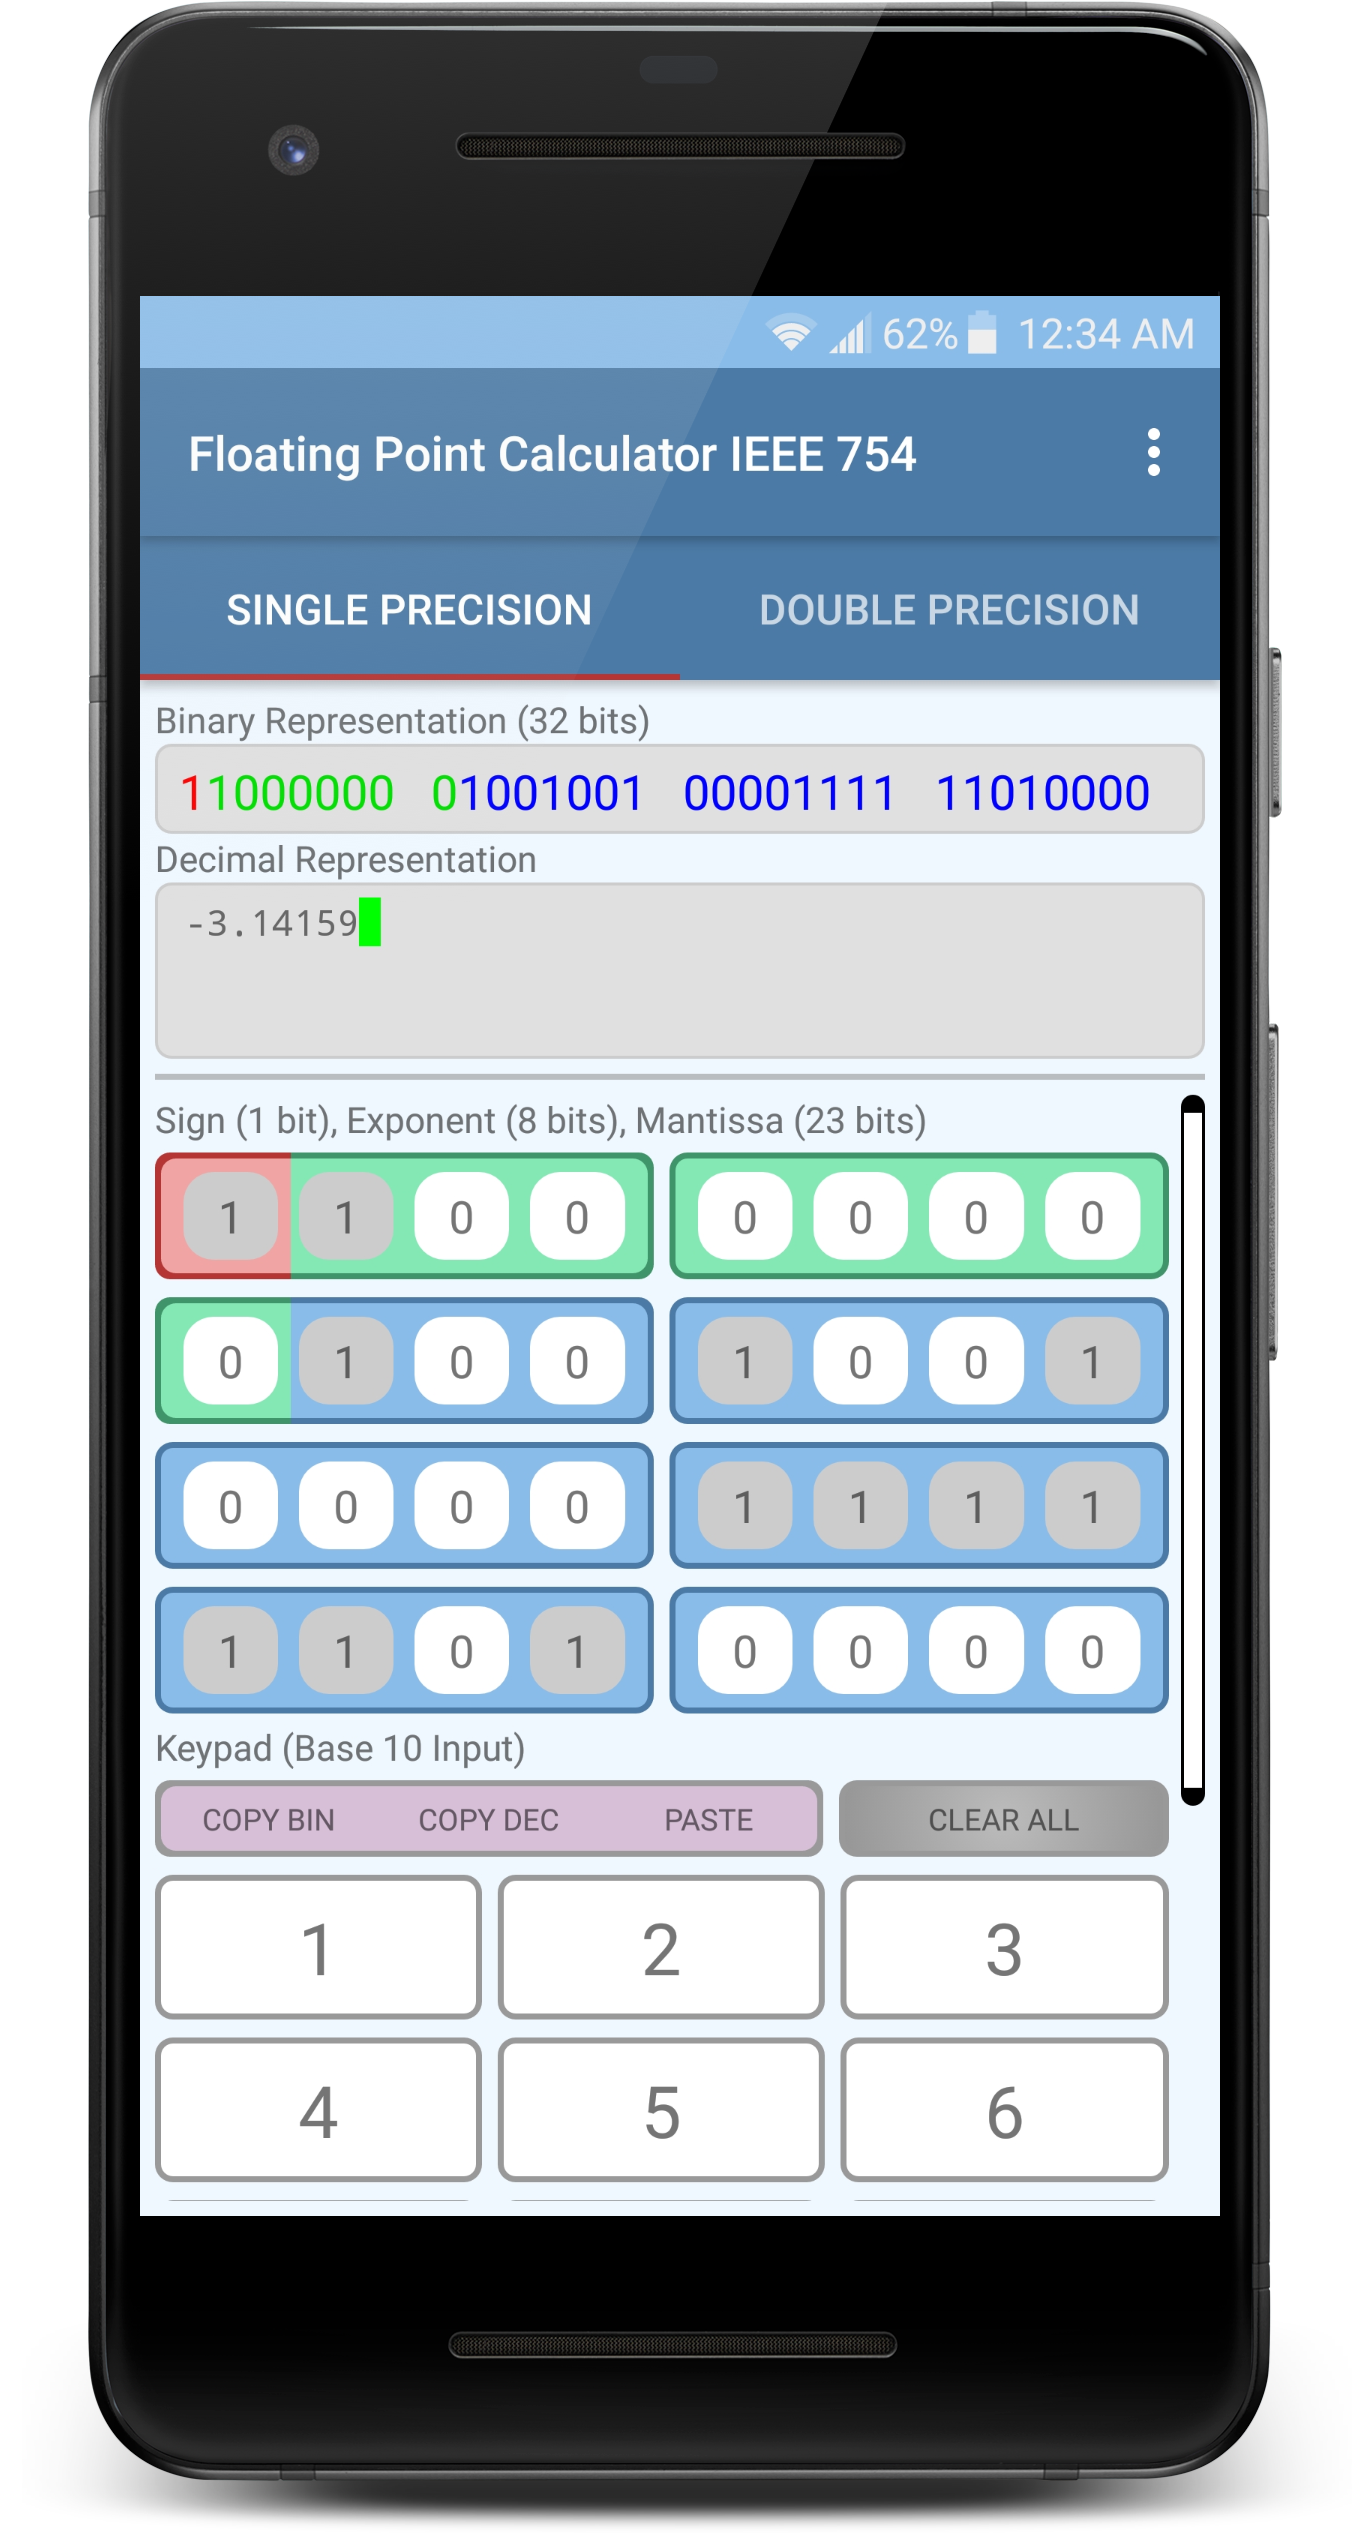
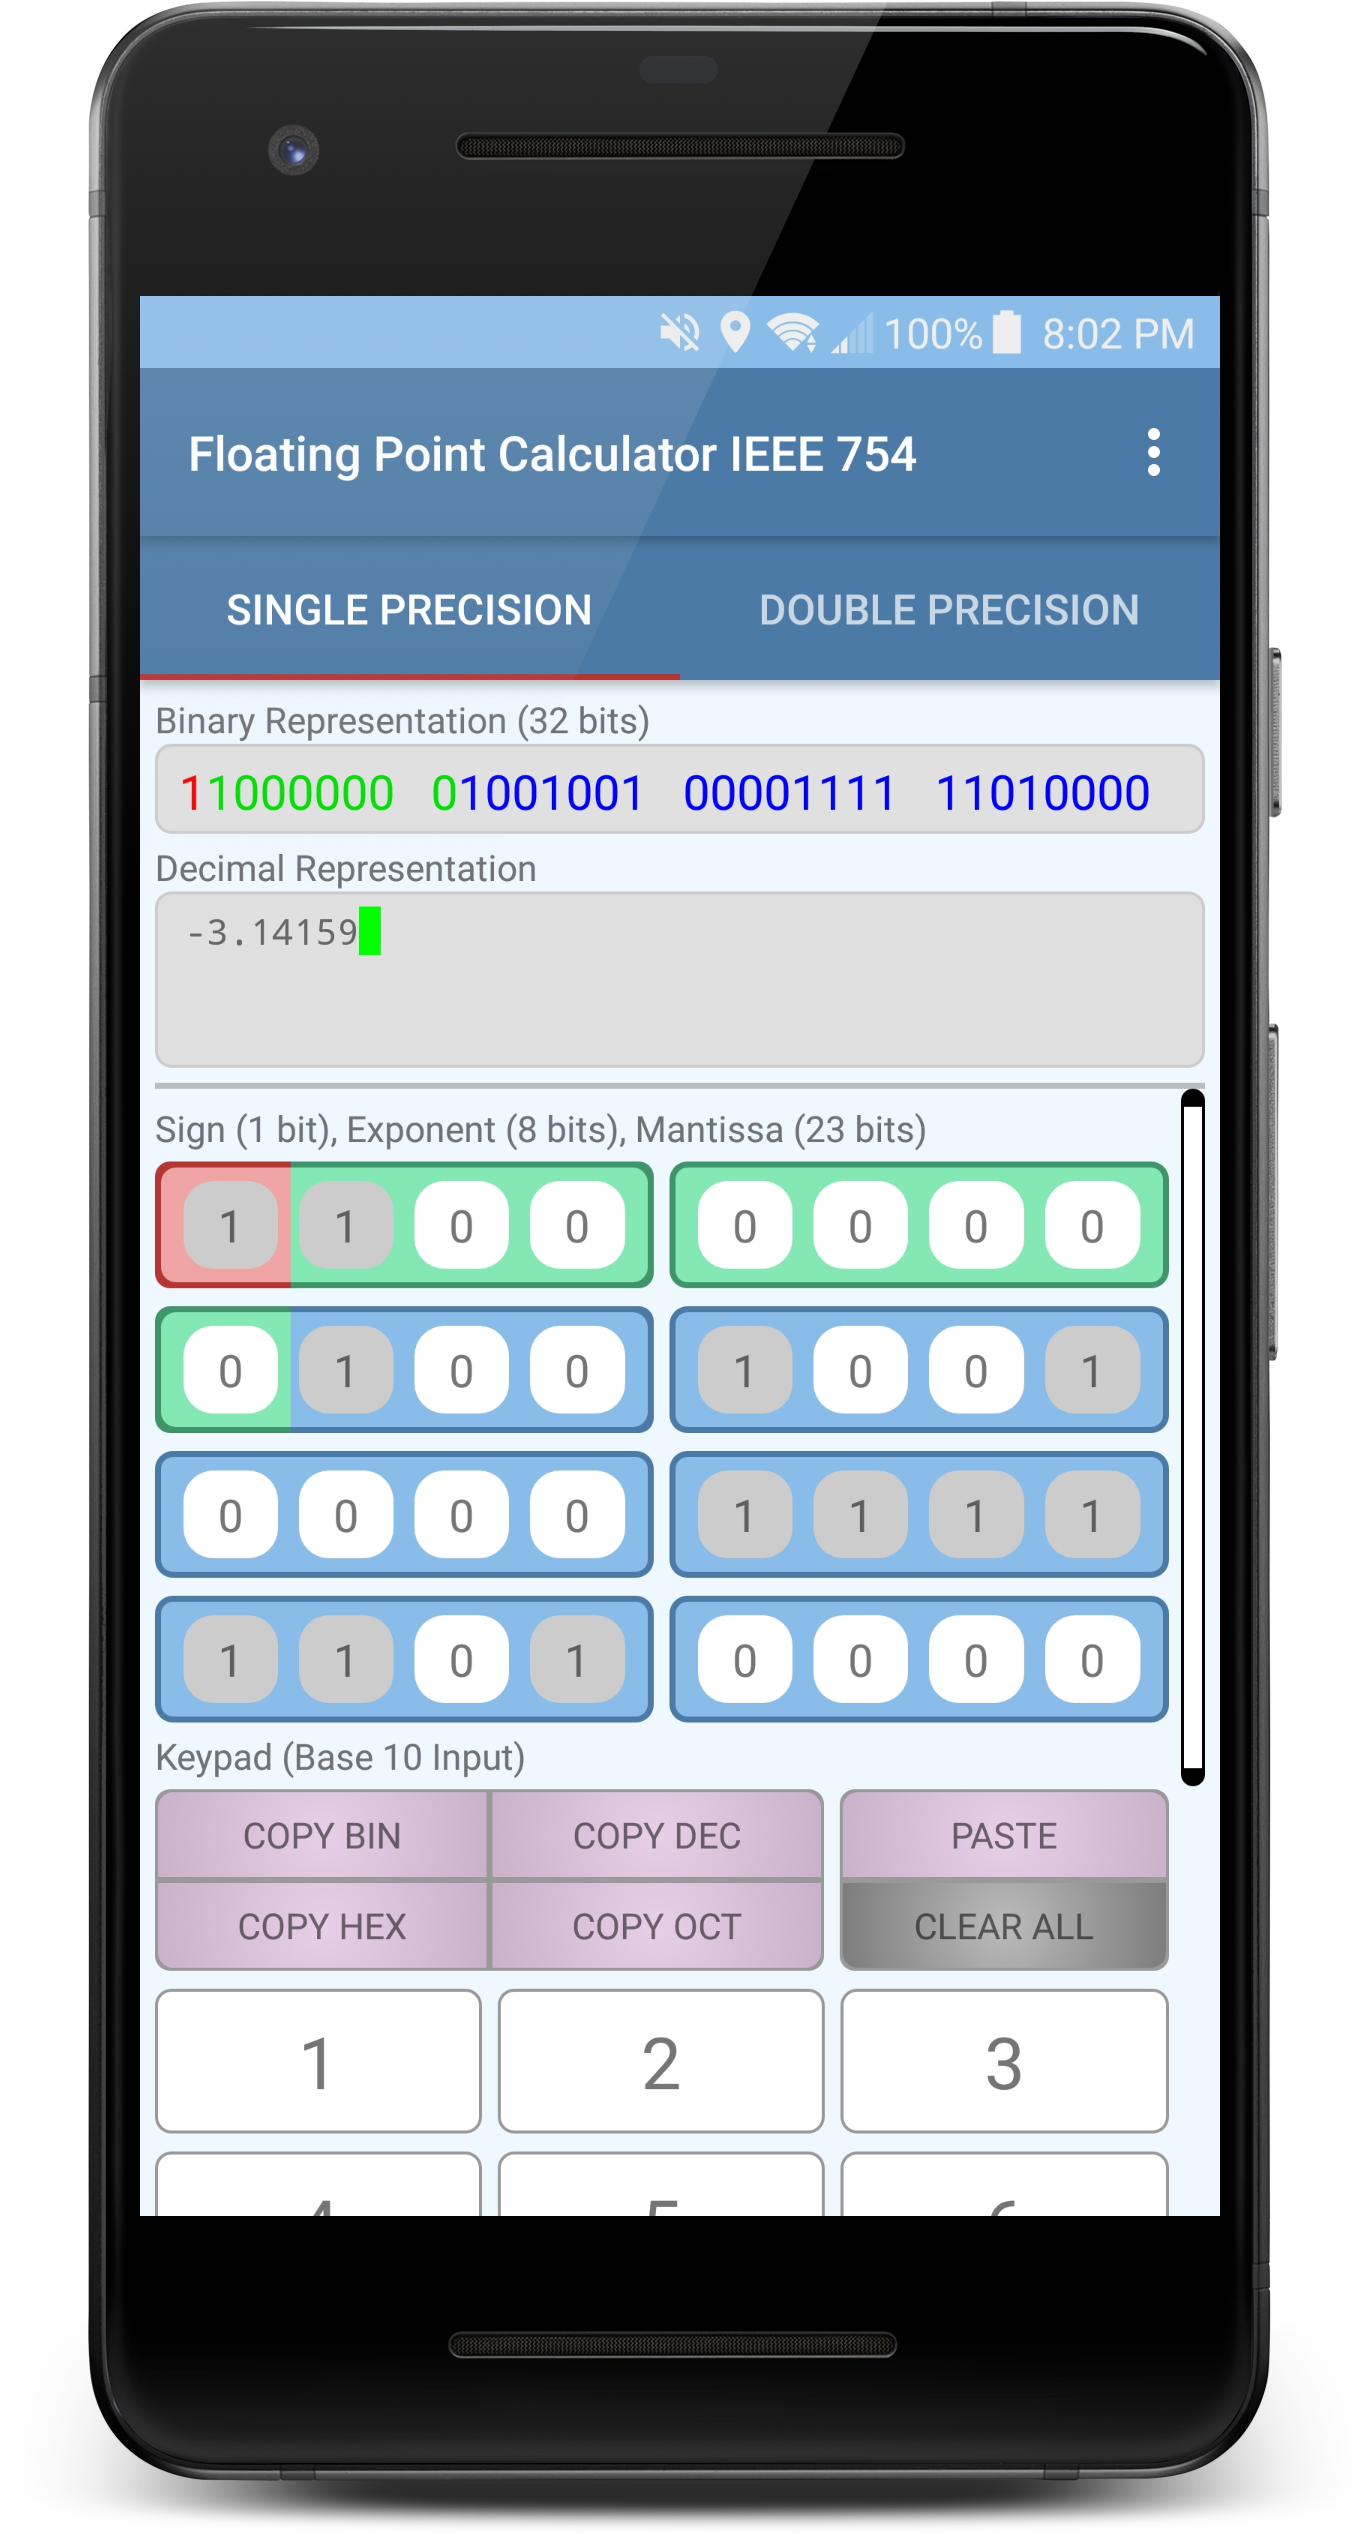
Update portfolio

Changed region(s): [[0.092, 0.4053, 0.8891, 0.8729], [0.1226, 0.3118, 0.8584, 0.3741], [0.4905, 0.1247, 0.8584, 0.1559]]

diff --git a/portfolio.html b/portfolio.html
@@ -431,15 +431,32 @@
                                                     </font>
                                                     <h5>Change Log</h5>
                                                     <div class="custom-scroll" style="overflow: scroll; overflow-x: hidden; background-color:PaleTurquoise none; width: 100%; height: 300px; margin-left: -5px !important;">
-                                                        <font size="4"><p><b>v1.3.0</b></p>
-                                                            <p>Added Features</p>
+                                                        <font size="4">
+                                                            <p><b>v1.4.0</b></p>
+                                                            <p>New Features</p>
+                                                            <ul>
+                                                                <li>Changed layout on small and large screens.</li>
+                                                                <li>Added "copy hex" and "copy octal" on small screens.</li>
+                                                                <li>Added user settings to customize calculator's appearance and behavior.</li>
+                                                                <li>Removed redundant menu buttons.</li>
+                                                                <li>Other minor visual changes.</li>
+                                                            </ul>
+                                                            <br>
+                                                            <p>Squashed Bugs</p>
+                                                            <ul>
+                                                                <li>Paste may crash app if decimal value contains the following letters: f, F, d, D, e, E</li>
+                                                                <li>Other minor bug fixes</li>
+                                                            </ul>
+                                                            <br>
+                                                            <p><b>v1.3.0</b></p>
+                                                            <p>New Features</p>
                                                             <ul>
                                                                 <li>Decimal pane scrollable.</li>
                                                                 <li>Copy/paste and clear buttons added on small screens.</li>
                                                                 <li>"About this app" page added.</li>
                                                             </ul>
                                                             <br>
-                                                            <p>Bug Fixes</p>
+                                                            <p>Squashed Bugs</p>
                                                             <ul>
                                                                 <li>Backspace/delete removes one extra character when released.</li>
                                                                 <li>Dot character not insert if value was zero.</li>
@@ -450,7 +467,7 @@
                                                             </ul>
                                                             <br>
                                                             <p><b>v1.2.0</b></p>
-                                                            <p>Added Features</p>
+                                                            <p>New Features</p>
                                                             <ul>
                                                                 <li>Layout for half-byte blocks changed.</li>
                                                                 <li>Buttons moved and resized on small screens.</li>
@@ -460,7 +477,7 @@
                                                                 <li>Cursor will stop blinking if value is 0.</li>
                                                             </ul>
                                                             <br>
-                                                            <p>Bug Fixes</p>
+                                                            <p>Squashed Bugs</p>
                                                             <ul>
                                                                 <li>Paste button crashes app when clipboard is empty.</li>
                                                                 <li>Sign button crashes app when cursor is on the minus sign.</li>
@@ -468,12 +485,18 @@
                                                             </ul>
                                                             <br>
                                                             <p><b>v1.1.0</b></p>
+                                                            <p>New Features</p>
                                                             <ul>
-                                                                <li>Fixed a bug where backspace/delete crashes the app (i.e. when the last remaining digit is removed and all that is left are periods, signs, spaces, or empty strings).</li>
                                                                 <li>Users can now paste values from the clipboard. Works for both base 2 and base 10 values.</li>
                                                             </ul>
                                                             <br>  
+                                                            <p>Squashed Bugs</p>
+                                                            <ul>
+                                                                <li>Fixed a bug where backspace/delete crashes the app (i.e. when the last remaining digit is removed and all that is left are periods, signs, spaces, or empty strings).</li>
+                                                            </ul>
+                                                            <br>  
                                                             <p><b>v1.0.0</b></p>
+                                                            <p>Features</p>
                                                             <ul>
                                                                 <li>32-bit precision available (swipe right)</li>
                                                                 <li>64-bit precision COMING SOON (swipe left)</li>
@@ -497,7 +520,7 @@
 											<h2>Videos</h2>
                                             <div class="temp">
                                                 <div style="position: relative; padding-top: 177.77%;">
-                                                    <iframe class="border" style="position: absolute; top: 0; left: 0; width: 100%; height: 100%;" src="https://www.youtube.com/embed/NACG_fnI71w" frameborder="0" allow="accelerometer; autoplay; encrypted-media; gyroscope; picture-in-picture" allowfullscreen></iframe>
+                                                    <iframe class="border" style="position: absolute; top: 0; left: 0; width: 100%; height: 100%;" src="https://www.youtube.com/embed/NACG_fnI71w?cc_load_policy=1" frameborder="0" allow="accelerometer; autoplay; encrypted-media; gyroscope; picture-in-picture" allowfullscreen></iframe>
                                                 </div>
                                             </div>
                                             <p class="caption">Video of old version of Floating Point Calculator</p>
@@ -525,6 +548,26 @@
                                                 <div class="col-sm-12 col-md-6 col-lg-6" style="padding-left: 2%; padding-right: 2%;">                                                
                                                     <a class="screenshot-right border" data-toggle="modal" data-target="#screenshotModal" data-screenshot="ximages/fpc_double_precision.jpg"><img src="ximages/fpc_double_precision.jpg" alt="placeholder"></a>
                                                     <p class="caption">Double precision</p>
+                                                    <br>
+                                                </div>
+                                                <div class="col-sm-12 col-md-6 col-lg-6" style="padding-left: 2%; padding-right: 2%;">                                                
+                                                    <a class="screenshot-right border" data-toggle="modal" data-target="#screenshotModal" data-screenshot="ximages/fpc_menu_options.jpg"><img src="ximages/fpc_menu_options.jpg" alt="placeholder"></a>
+                                                    <p class="caption">Menu options</p>
+                                                    <br>
+                                                </div>
+                                                <div class="col-sm-12 col-md-6 col-lg-6" style="padding-left: 2%; padding-right: 2%;">                                                
+                                                    <a class="screenshot-right border" data-toggle="modal" data-target="#screenshotModal" data-screenshot="ximages/fpc_user_settings.jpg"><img src="ximages/fpc_user_settings.jpg" alt="placeholder"></a>
+                                                    <p class="caption">User settings</p>
+                                                    <br>
+                                                </div>
+                                                <div class="col-sm-12 col-md-6 col-lg-6" style="padding-left: 2%; padding-right: 2%;">                                                
+                                                    <a class="screenshot-right border" data-toggle="modal" data-target="#screenshotModal" data-screenshot="ximages/fpc_without_section_titles.jpg"><img src="ximages/fpc_without_section_titles.jpg" alt="placeholder"></a>
+                                                    <p class="caption">Hide section titles</p>
+                                                    <br>
+                                                </div>
+                                                <div class="col-sm-12 col-md-6 col-lg-6" style="padding-left: 2%; padding-right: 2%;">                                                
+                                                    <a class="screenshot-right border" data-toggle="modal" data-target="#screenshotModal" data-screenshot="ximages/fpc_without_binary_pane_and_section_titles.jpg"><img src="ximages/fpc_without_binary_pane_and_section_titles.jpg" alt="placeholder"></a>
+                                                    <p class="caption">Hide binary pane and section titles</p>
                                                     <br>
                                                 </div>
                                                 <div class="col-sm-12 col-md-6 col-lg-6" style="padding-left: 2%; padding-right: 2%;">                                                
